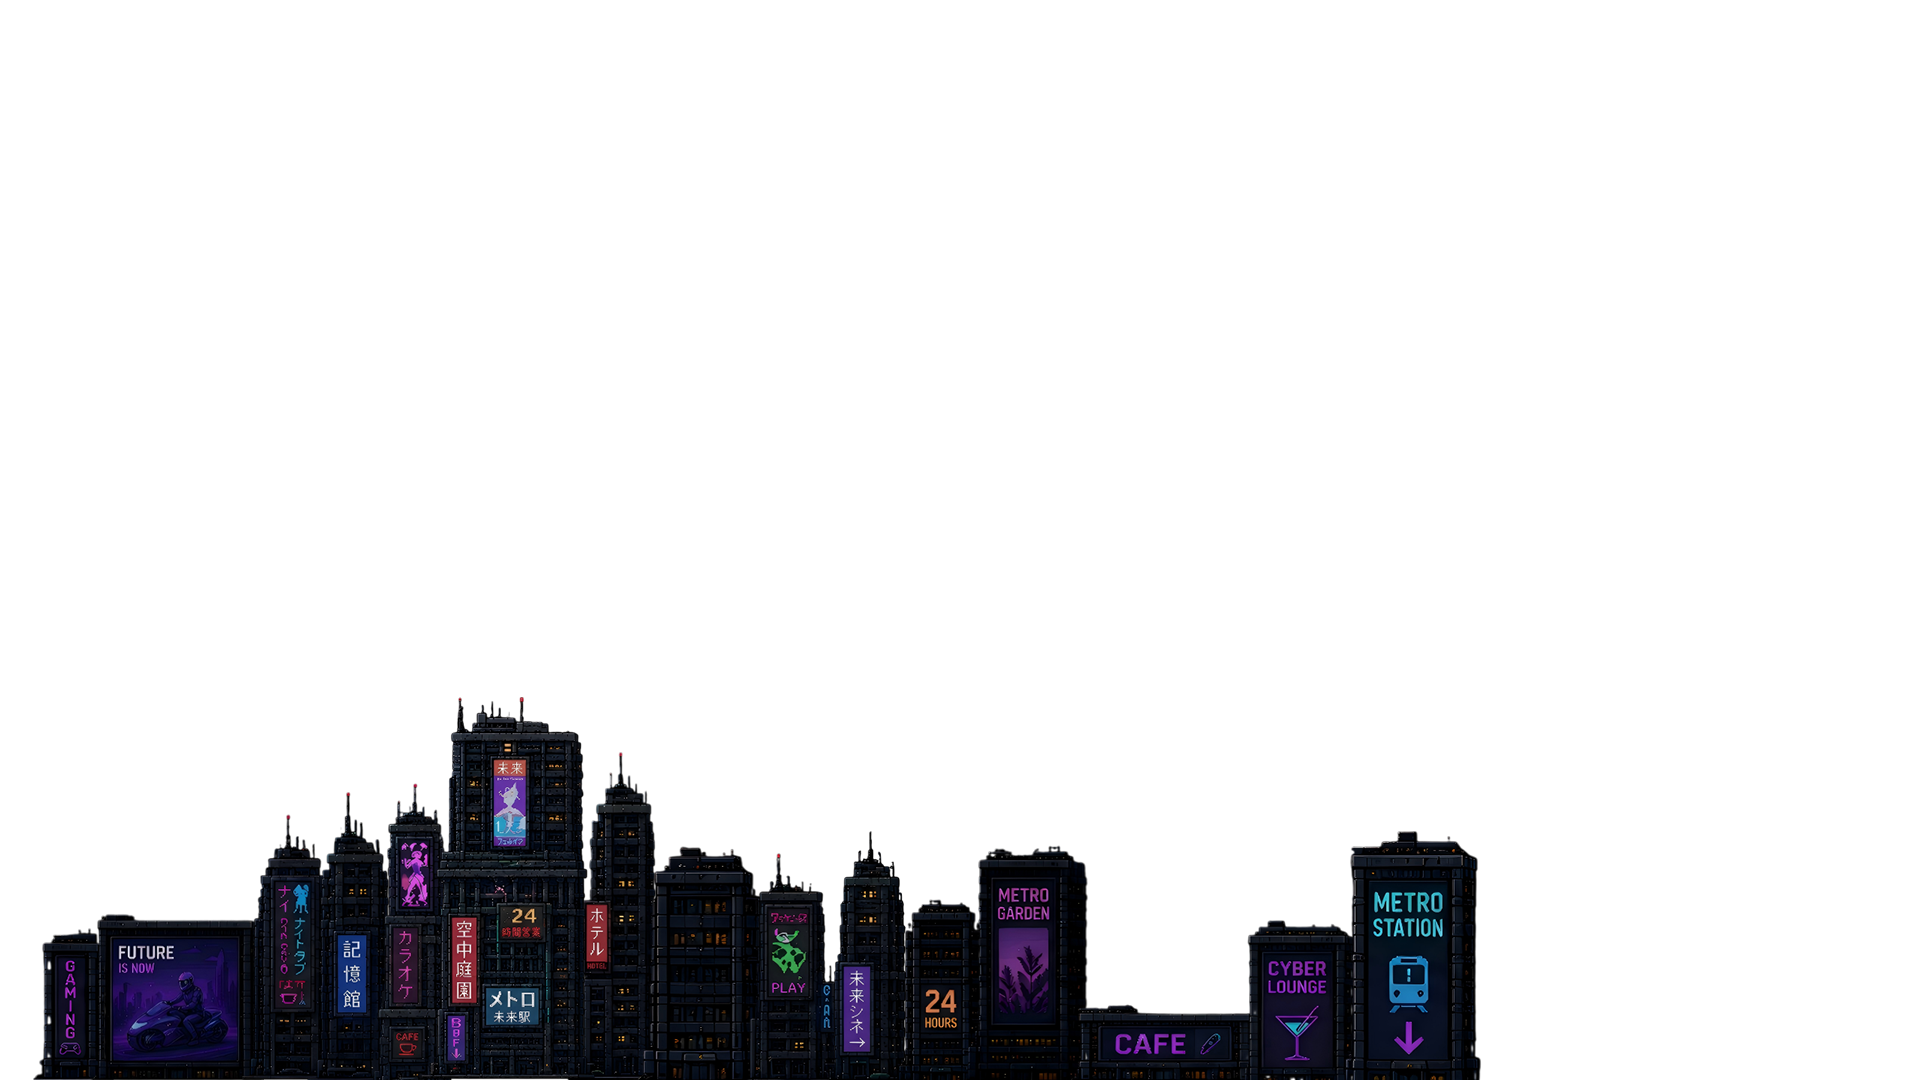
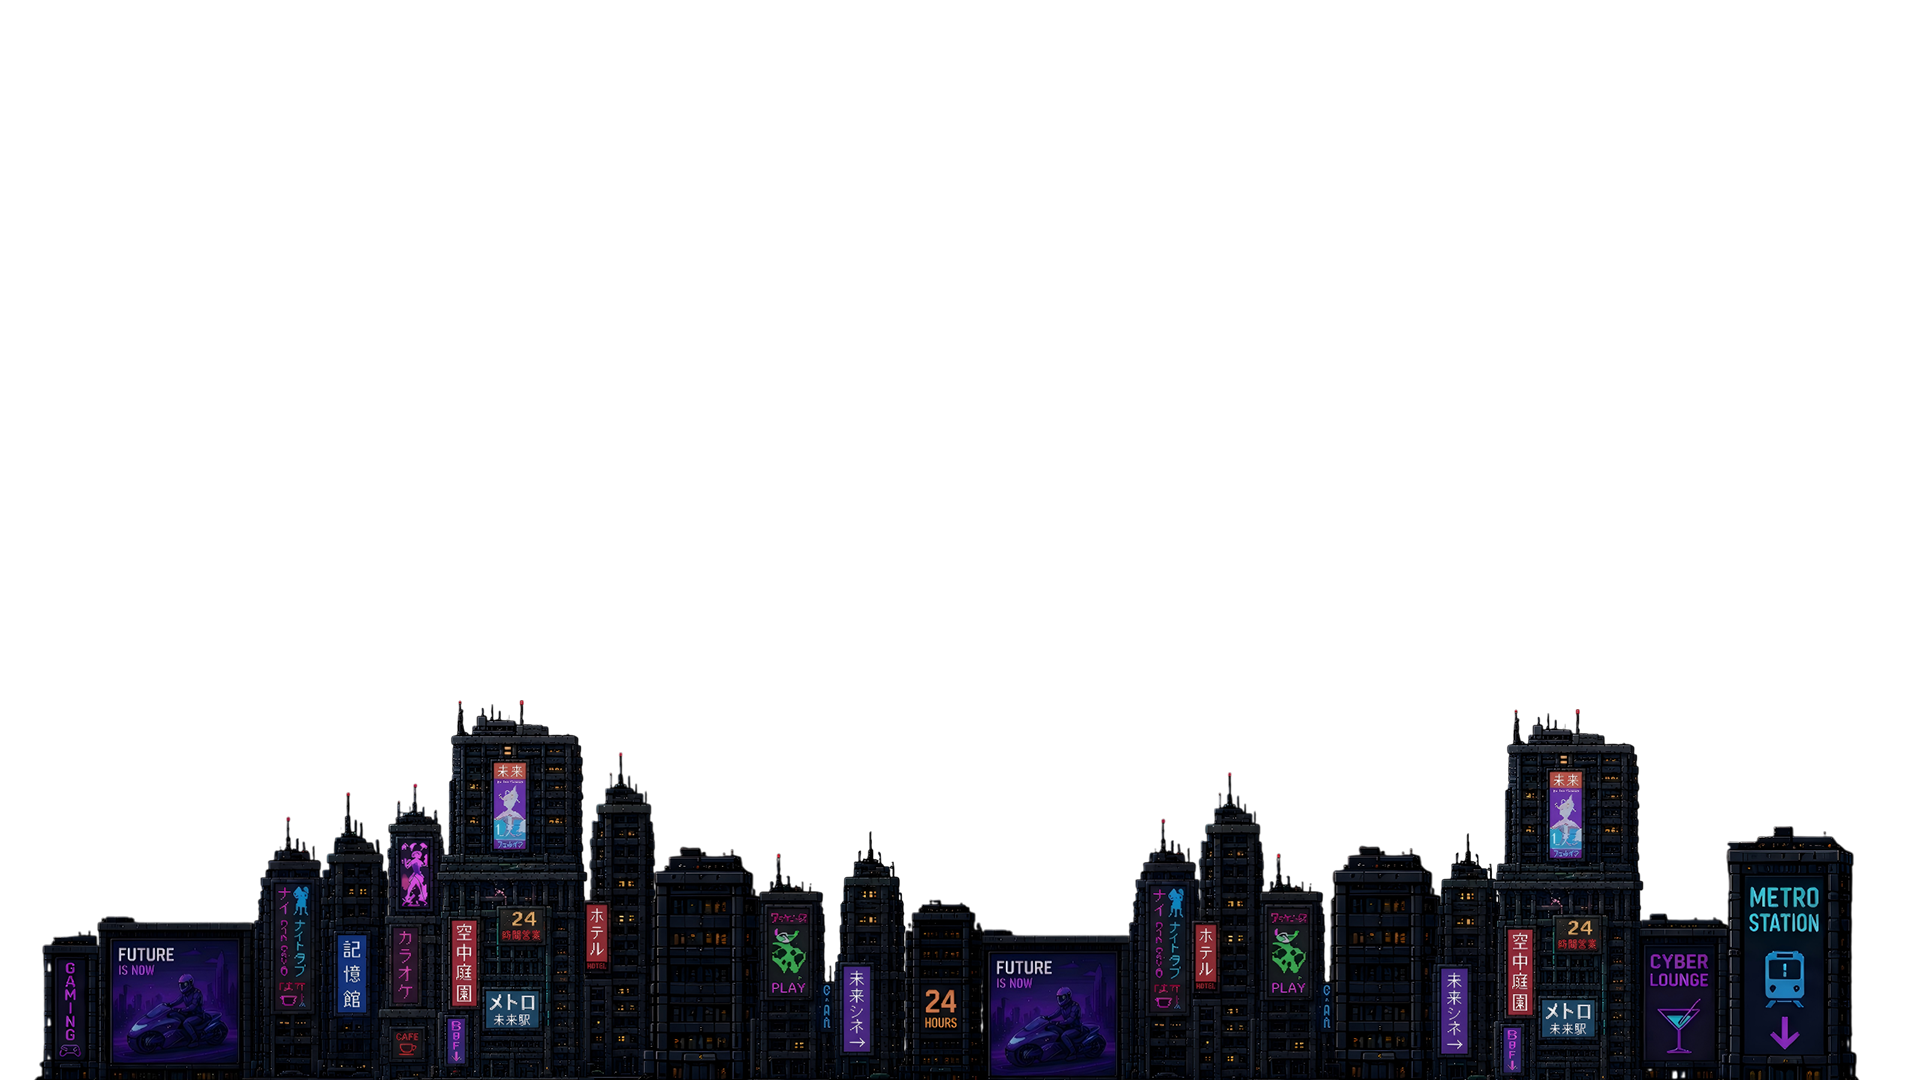
[Feat] 타이틀 씬 연출 이미지 변경 - 2

Changed region(s): [[0.5, 0.6722, 0.9688, 1.0], [0.2188, 0.6417, 0.3125, 1.0], [0.0312, 0.7944, 0.1562, 1.0]]

diff --git a/MidnightExpressProject/Assets/02. Scenes/Title/Scripts/TitleParallaxMotion.cs b/MidnightExpressProject/Assets/02. Scenes/Title/Scripts/TitleParallaxMotion.cs
@@ -56,6 +56,7 @@ public sealed class TitleParallaxMotion : MonoBehaviour
         [NonSerialized] public MaterialPropertyBlock StartPropertyBlock;
         [NonSerialized] public MaterialPropertyBlock RuntimePropertyBlock;
         [NonSerialized] public float RepeatWorldWidth;
+        [NonSerialized] public float MirroredUvDirection = 1f;
         [NonSerialized] public float Offset;
         [NonSerialized] public bool Initialized;
     }
@@ -153,12 +154,15 @@ public sealed class TitleParallaxMotion : MonoBehaviour
             layer.Renderer.GetPropertyBlock(layer.RuntimePropertyBlock);
             layer.Renderer.sharedMaterial = repeatMaterial;
 
-            var scaleX = Mathf.Max(
-                0.0001f,
-                Mathf.Abs(layer.Renderer.transform.lossyScale.x));
+            var signedScaleX = layer.Renderer.transform.lossyScale.x;
+            var scaleX = Mathf.Max(0.0001f, Mathf.Abs(signedScaleX));
             layer.RepeatWorldWidth = Mathf.Max(
                 0.01f,
                 layer.Renderer.sprite.bounds.size.x * scaleX);
+            // A negative X scale mirrors geometry, which reverses the apparent
+            // UV scroll direction. Compensate so every positive Speed moves
+            // the layer in the same screen-space direction.
+            layer.MirroredUvDirection = signedScaleX < 0f ? -1f : 1f;
             layer.Offset = 0f;
 
             layer.RuntimePropertyBlock.SetFloat(
@@ -186,7 +190,12 @@ public sealed class TitleParallaxMotion : MonoBehaviour
         var tilingX = Mathf.Max(0.01f, layer.TilingX);
         var uvPerWorldUnit = tilingX / layer.RepeatWorldWidth;
         layer.Offset = Mathf.Repeat(
-            layer.Offset + layer.Speed * ramp * deltaTime * uvPerWorldUnit,
+            layer.Offset +
+            layer.Speed *
+            layer.MirroredUvDirection *
+            ramp *
+            deltaTime *
+            uvPerWorldUnit,
             1f);
 
         layer.RuntimePropertyBlock.SetFloat(TilingXId, tilingX);
@@ -333,6 +342,7 @@ public sealed class TitleParallaxMotion : MonoBehaviour
             layer.StartPropertyBlock = null;
             layer.RuntimePropertyBlock = null;
             layer.RepeatWorldWidth = 0f;
+            layer.MirroredUvDirection = 1f;
             layer.Offset = 0f;
             layer.Initialized = false;
         }
